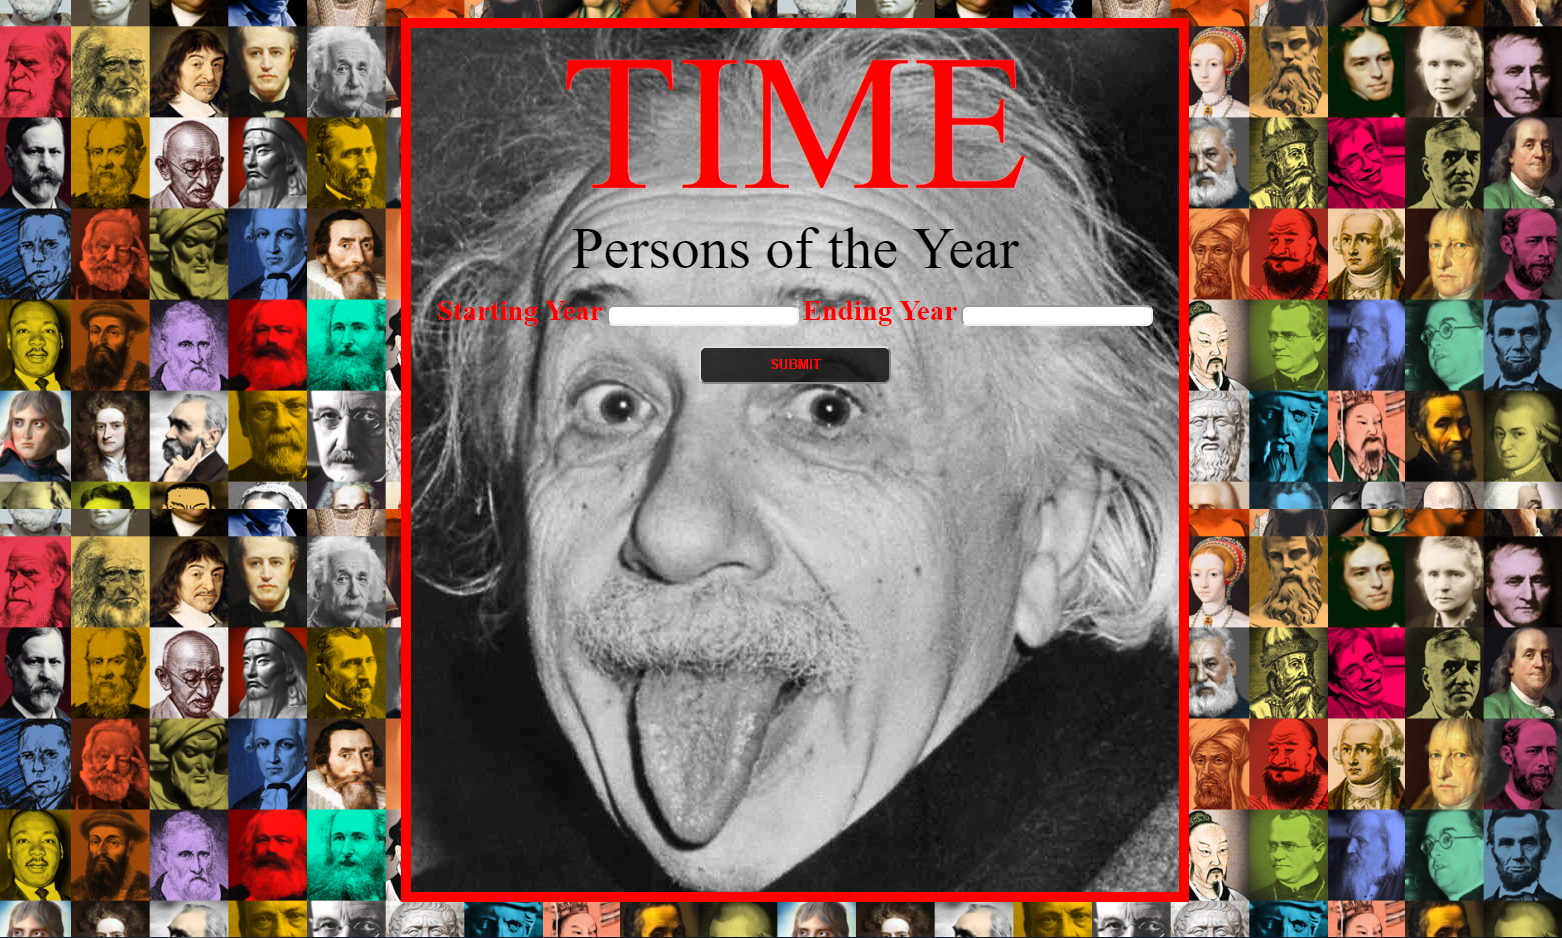
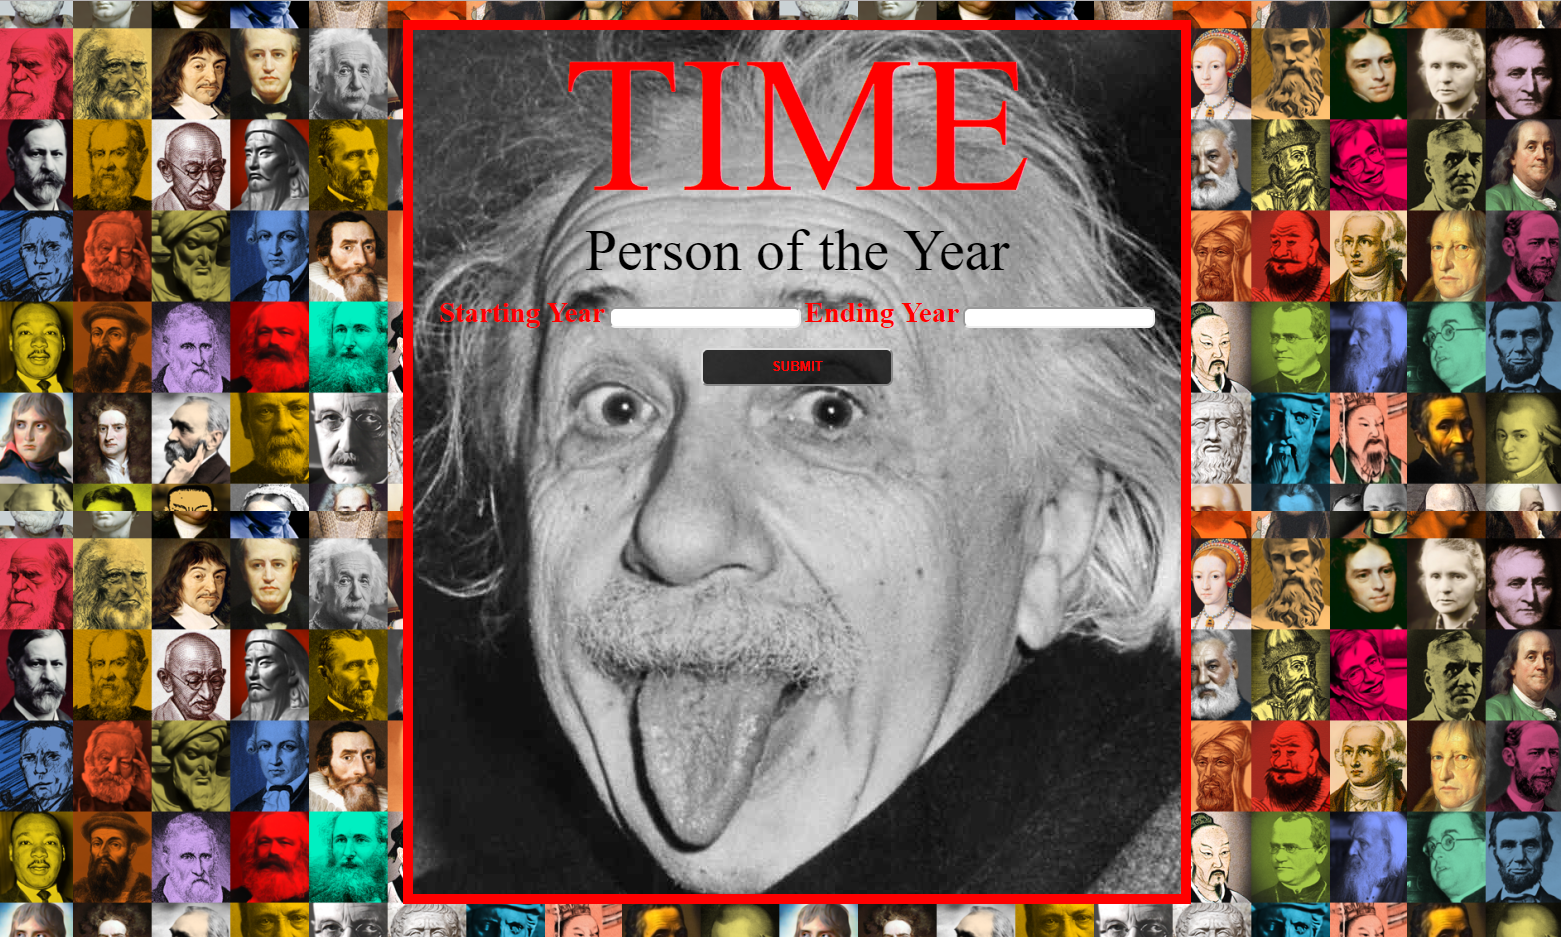
updated title

Changed region(s): [[0.0, 0.0, 1.0, 1.0], [0.5227, 0.7118, 0.6457, 0.8975]]

diff --git a/Lab11-First-MVC-App/Lab11-First-MVC-App/wwwroot/StyleSheet.css b/Lab11-First-MVC-App/Lab11-First-MVC-App/wwwroot/StyleSheet.css
@@ -20,7 +20,7 @@
 #index-person {
     font-size: 3vw;
     margin-bottom: 1vw;
-
+    font-family: 'Times New Roman', Times, serif, serif;
 }
 #table-head {
     font-family: 'Times New Roman', Times, serif, serif;
